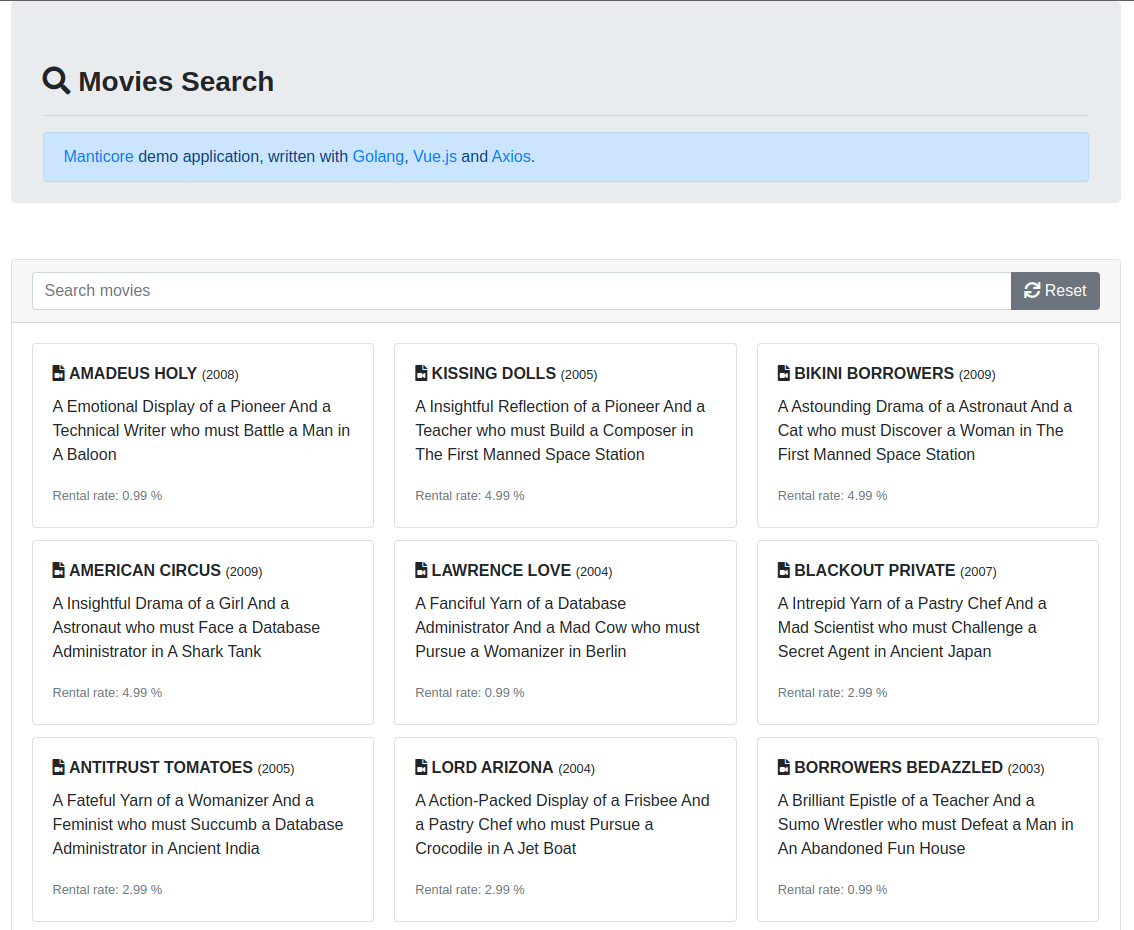
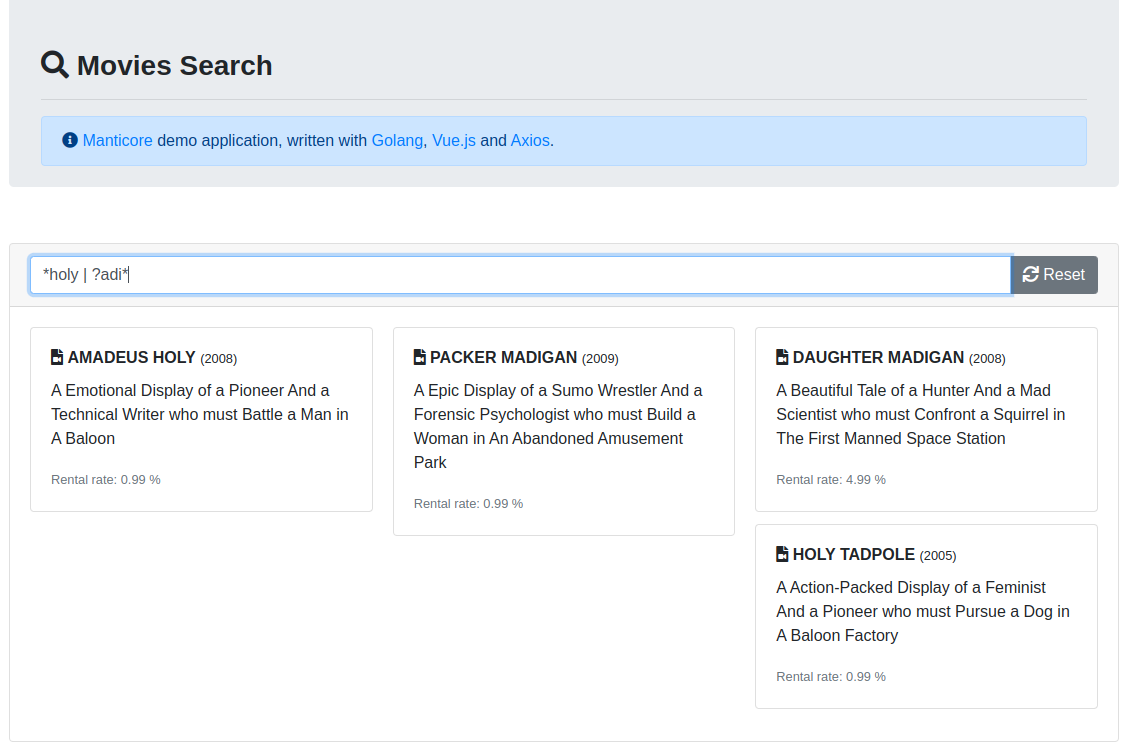
feat: improved search relevance

diff --git a/app/views/index.html b/app/views/index.html
@@ -19,7 +19,7 @@
                 </h3>
                 <hr/>
                 <div class="alert alert-primary alert-no-margin-bottom" role="alert">
-                    <a href="https://manticoresearch.com" target="_blank">Manticore</a> demo application, written with <a href="https://go.dev" target="_blank">Golang</a>, <a href="https://vuejs.org" target="_blank">Vue.js</a> and <a href="https://axios-http.com" target="_blank">Axios</a>.
+                    <i class="fas fa-info-circle"></i>&nbsp;<a href="https://manticoresearch.com" target="_blank">Manticore</a> demo application, written with <a href="https://go.dev" target="_blank">Golang</a>, <a href="https://vuejs.org" target="_blank">Vue.js</a> and <a href="https://axios-http.com" target="_blank">Axios</a>.
                 </div>
             </div>
             <br/>

diff --git a/app/client/sql.go b/app/client/sql.go
@@ -25,7 +25,7 @@ func (c ManticoreSqlClient) FindAll(index string) (*ManticoreClientSearchResult,
 
 func (c ManticoreSqlClient) FindByExpression(index string, expression string) (*ManticoreClientSearchResult, error) {
 
-	res, err := c.Client.Sphinxql(fmt.Sprintf(`select * from %s where match('"%s"') limit %d`, index, expression, c.Limit))
+	res, err := c.Client.Sphinxql(fmt.Sprintf(`select * from %s where match('%s') limit %d`, index, expression, c.Limit))
 	if err != nil {
 		log.Printf("error: %v", err)
 		return nil, err
